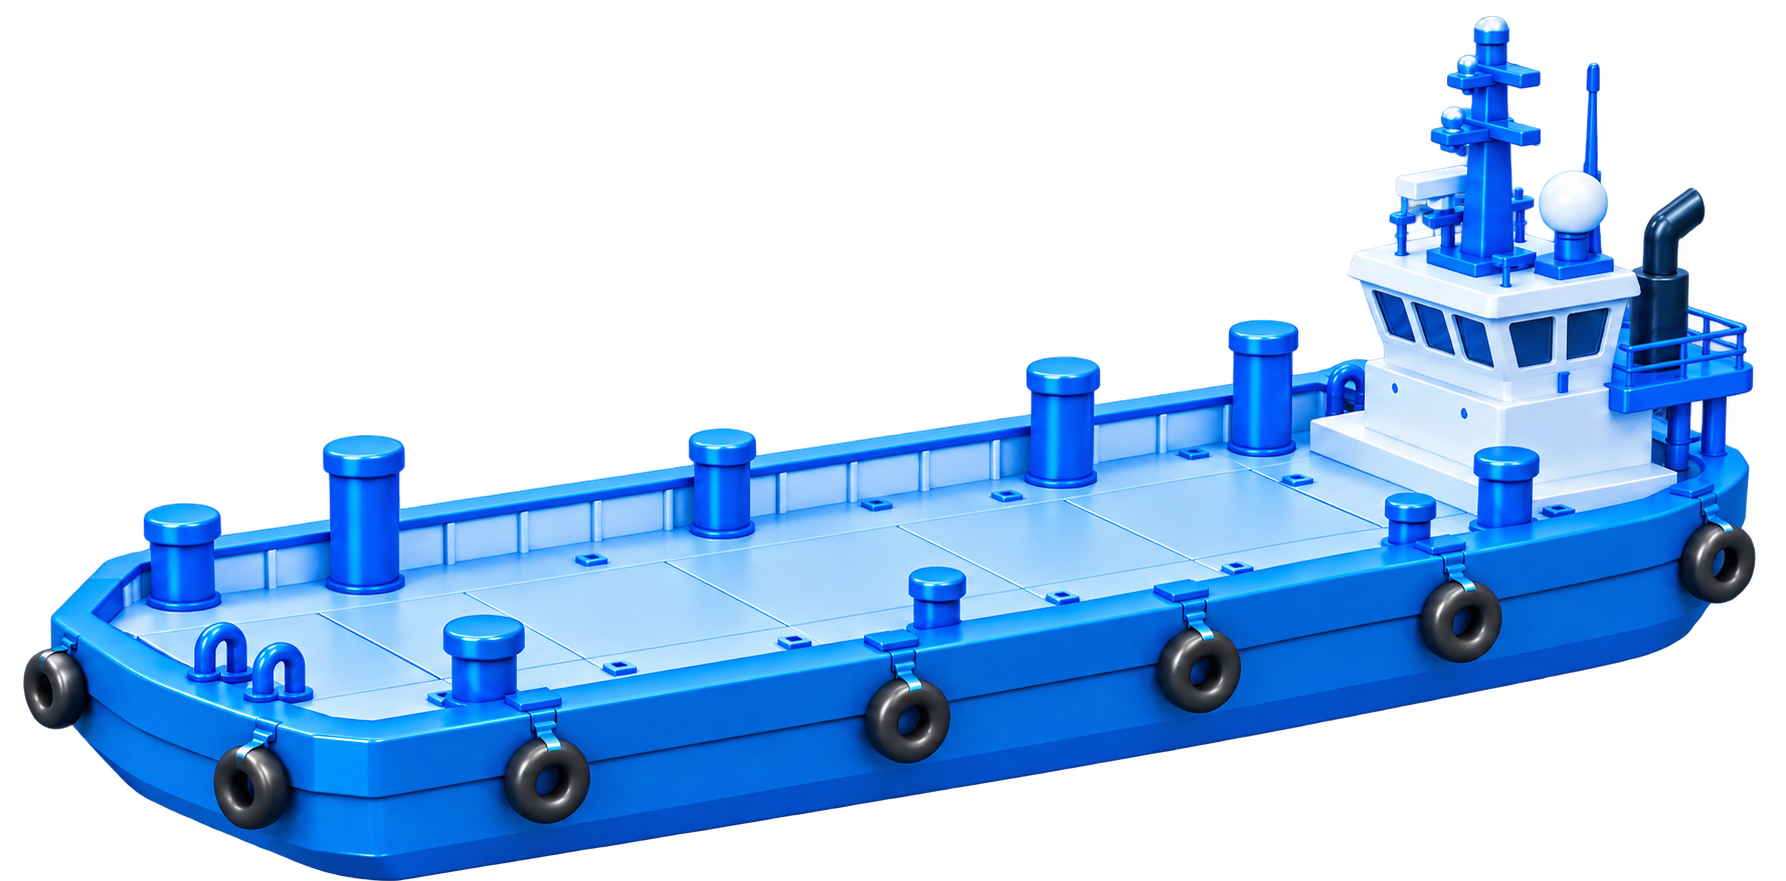
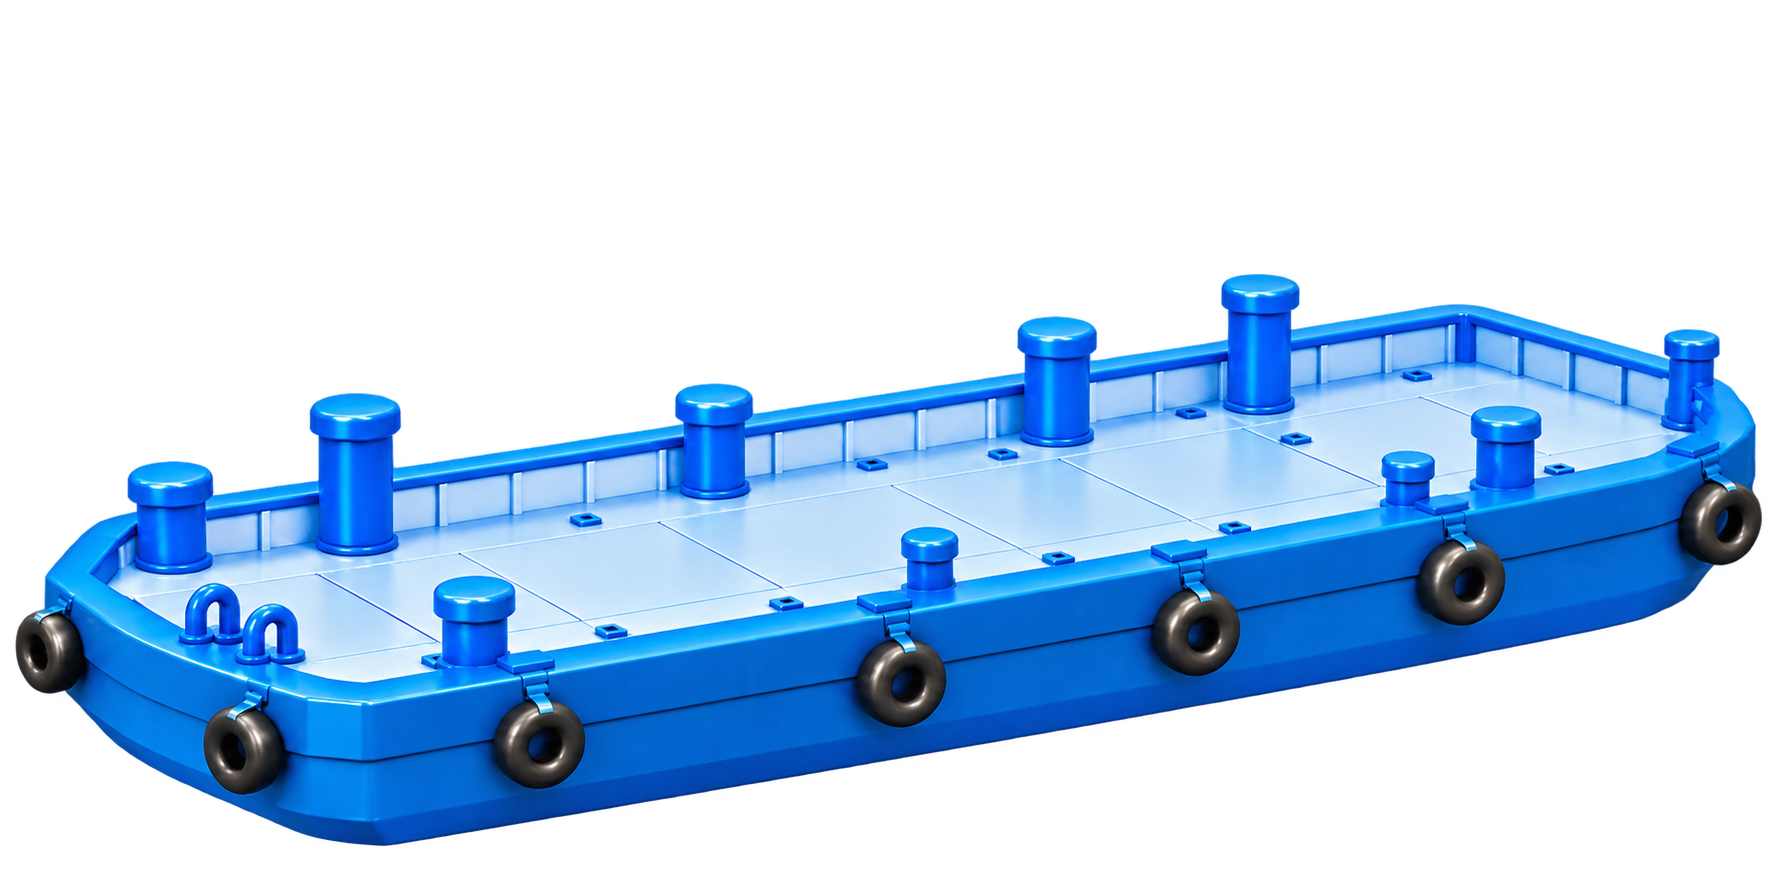
updated it

diff --git a/src/index.css b/src/index.css
@@ -2230,8 +2230,8 @@ html, body, #root {
 
 /* Workshop & Maintenance only: reduce its icon from 125×125px to 120×120px. */
 .facility-item:last-child .facility-icon {
-  width: 120px !important;
-  height: 120px;
-  max-width: 120px;
-  max-height: 120px;
+  width: 110px !important;
+  height: 110px;
+  max-width: 110px;
+  max-height: 110px;
 }
